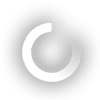
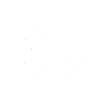
Nereus: CPButtonStyle, layout fixes

diff --git a/MediaPortal/Source/UI/Skins/Nereus/Skin/Nereus/themes/default/styles/Buttons.xaml b/MediaPortal/Source/UI/Skins/Nereus/Skin/Nereus/themes/default/styles/Buttons.xaml
@@ -33,25 +33,41 @@
   </Storyboard>
 
   <Storyboard x:Key="FocusedNereusStoryboard" FillBehavior="HoldEnd">
-    <DoubleAnimationUsingKeyFrames BeginTime="00:00:00" FillBehavior="HoldEnd" Storyboard.TargetName="ItemFrame" Storyboard.TargetProperty="Opacity">
+    <!--DoubleAnimationUsingKeyFrames BeginTime="00:00:00" FillBehavior="HoldEnd" Storyboard.TargetName="ItemFrame" Storyboard.TargetProperty="Opacity">
       <SplineDoubleKeyFrame KeyTime="00:00:00" Value="0"/>
       <SplineDoubleKeyFrame KeyTime="00:00:00.4" Value="1"/>
-    </DoubleAnimationUsingKeyFrames>
+    </-->
     <DoubleAnimationUsingKeyFrames BeginTime="00:00:00" FillBehavior="HoldEnd" Storyboard.TargetName="ItemImage" Storyboard.TargetProperty="Opacity">
         <SplineDoubleKeyFrame KeyTime="00:00:00" Value="0.7"/>
-        <SplineDoubleKeyFrame KeyTime="00:00:00.4" Value="1"/>
+        <SplineDoubleKeyFrame KeyTime="00:00:00.4" Value="1.2"/>
       </DoubleAnimationUsingKeyFrames>
+    <DoubleAnimationUsingKeyFrames BeginTime="00:00:00" FillBehavior="HoldEnd" Storyboard.TargetName="GrowControl" Storyboard.TargetProperty="RenderTransform.Children[0].ScaleX">
+      <SplineDoubleKeyFrame KeyTime="00:00:00" Value="1"/>
+      <SplineDoubleKeyFrame KeyTime="00:00:00.3" Value="1.16"/>
+    </DoubleAnimationUsingKeyFrames>
+    <DoubleAnimationUsingKeyFrames BeginTime="00:00:00" FillBehavior="HoldEnd" Storyboard.TargetName="GrowControl" Storyboard.TargetProperty="RenderTransform.Children[0].ScaleY">
+      <SplineDoubleKeyFrame KeyTime="00:00:00" Value="1"/>
+      <SplineDoubleKeyFrame KeyTime="00:00:00.3" Value="1.16"/>
+    </DoubleAnimationUsingKeyFrames>
   </Storyboard>
 
   <Storyboard x:Key="NotFocusedNereusStoryboard" FillBehavior="HoldEnd">
-    <DoubleAnimationUsingKeyFrames BeginTime="00:00:00" FillBehavior="HoldEnd" Storyboard.TargetName="ItemFrame" Storyboard.TargetProperty="Opacity">
+    <!--DoubleAnimationUsingKeyFrames BeginTime="00:00:00" FillBehavior="HoldEnd" Storyboard.TargetName="ItemFrame" Storyboard.TargetProperty="Opacity">
       <SplineDoubleKeyFrame KeyTime="00:00:00" Value="1"/>
       <SplineDoubleKeyFrame KeyTime="00:00:00.4" Value="0"/>
-    </DoubleAnimationUsingKeyFrames>
+    </-->
     <DoubleAnimationUsingKeyFrames BeginTime="00:00:00" FillBehavior="HoldEnd" Storyboard.TargetName="ItemImage" Storyboard.TargetProperty="Opacity">
-        <SplineDoubleKeyFrame KeyTime="00:00:00" Value="1"/>
+        <SplineDoubleKeyFrame KeyTime="00:00:00" Value="1.2"/>
         <SplineDoubleKeyFrame KeyTime="00:00:00.4" Value="0.7"/>
       </DoubleAnimationUsingKeyFrames>
+    <DoubleAnimationUsingKeyFrames BeginTime="00:00:00" FillBehavior="HoldEnd" Storyboard.TargetName="GrowControl" Storyboard.TargetProperty="RenderTransform.Children[0].ScaleX">
+      <SplineDoubleKeyFrame KeyTime="00:00:00" Value="1.16"/>
+      <SplineDoubleKeyFrame KeyTime="00:00:00.3" Value="1"/>
+    </DoubleAnimationUsingKeyFrames>
+    <DoubleAnimationUsingKeyFrames BeginTime="00:00:00" FillBehavior="HoldEnd" Storyboard.TargetName="GrowControl" Storyboard.TargetProperty="RenderTransform.Children[0].ScaleY">
+      <SplineDoubleKeyFrame KeyTime="00:00:00" Value="1.16"/>
+      <SplineDoubleKeyFrame KeyTime="00:00:00.3" Value="1"/>
+    </DoubleAnimationUsingKeyFrames>
   </Storyboard>
 
   <Storyboard x:Key="FocusedButtonWideStoryboard_Poster" FillBehavior="HoldEnd">
@@ -1534,14 +1550,26 @@
       <Setter.Value>
         <ControlTemplate TargetType="{x:Type Button}">
           <DockPanel>
-            <Grid DockPanel.Dock="Left" Height="58" Width="58">
-              <Image x:Name="image1" Source="CP_Background.png" Stretch="Uniform" Margin="1" HorizontalAlignment="Center" VerticalAlignment="Center"/>
-              <Image x:Name="image2" Source="CP_Play.png" Stretch="Uniform" Margin="19,16,13,16" Opacity="0.4" HorizontalAlignment="Center" VerticalAlignment="Center"/>
-              <Image x:Name="image3" Source="IsPlaying.png" Stretch="Uniform"  RenderTransformOrigin="0.49,0.49" Margin="0"
-                   HorizontalAlignment="Center" VerticalAlignment="Center">
+            <Grid DockPanel.Dock="Left" Height="84" Width="84">
+              <Image x:Name="ItemImage" HorizontalAlignment="Center" VerticalAlignment="Center" Stretch="Uniform" 
+                     DockPanel.Dock="Center" Margin="9" RenderTransformOrigin="0.5,0.5">
                 <Image.RenderTransform>
                   <RotateTransform x:Name="AnimatedRotateTransform" Angle="0" />
                 </Image.RenderTransform>
+                <Image.Source>
+                  <MultiBinding Converter="{StaticResource ExpressionMultiValueConverter}" ConverterParameter="{}{0} ? {1} : {2}">
+                    <Binding RelativeSource="{RelativeSource Mode=FindAncestor,AncestorType={x:Type Button}}" Path="HasFocus"/>
+                    <Binding Source="CP_Circle_focus.png"/>
+                    <Binding Source="CP_Circle.png"/>
+                  </MultiBinding>
+                </Image.Source>
+                <Image.Opacity>
+                  <MultiBinding Converter="{StaticResource ExpressionMultiValueConverter}" ConverterParameter="{}{0} ? {1} : {2}">
+                    <Binding RelativeSource="{RelativeSource Mode=FindAncestor,AncestorType={x:Type Button}}" Path="HasFocus"/>
+                    <Binding Source="1"/>
+                    <Binding Source="0.6"/>
+                  </MultiBinding>
+                </Image.Opacity>
                 <Image.Triggers>
                   <Trigger Property="IsEnabled" Value="True">
                     <Trigger.EnterActions>
@@ -1553,8 +1581,10 @@
                   </Trigger>
                 </Image.Triggers>
               </Image>
+              <Image x:Name="image2" Source="CP_Play.png" Stretch="Uniform" Margin="36,33,33,33" Opacity="0.6" HorizontalAlignment="Center" VerticalAlignment="Center"/>
             </Grid>
-            <StackPanel Orientation="Vertical" Margin="5,0,5,0" DockPanel.Dock="Right" IsVisible="{Binding RelativeSource={RelativeSource Mode=FindAncestor,AncestorType={x:Type Button}},Path=HasFocus}">
+            
+            <StackPanel Orientation="Vertical" Margin="5,15,5,15" DockPanel.Dock="Right" IsVisible="{Binding RelativeSource={RelativeSource Mode=FindAncestor,AncestorType={x:Type Button}},Path=HasFocus}">
               <mp_special_controls:PlayerControl Style="{ThemeResource CPLabelControlStyle}" 
                   AutoVisibility="True" PlayerContext="PrimaryPlayer" />
               <mp_special_controls:PlayerControl Style="{ThemeResource CPLabelControlStyle}"
@@ -1652,7 +1682,7 @@
                 <!-- Need to repeat the context here because the Button (ContentControl) sets the DataContext on the Content element -->
                 <Image x:Name="icon" Source="{Binding NotificationSymbolRelFilePath}" Width="50" Stretch="Uniform" Opacity="0.7"/>
                 <StackPanel Orientation="Horizontal" IsVisible="{Binding IsMoreThanOneNotificationAvailable}"
-                      HorizontalAlignment="Right" VerticalAlignment="Bottom">
+                            HorizontalAlignment="Right" VerticalAlignment="Bottom">
                   <Label Content="(" FontSize="{ThemeResource TinyFontSize}" Color="{ThemeResource TextColor}"/>
                   <Label Content="{Binding NumNotificationsTotal}" FontSize="{ThemeResource TinyFontSize}" Color="{ThemeResource TextColor}"/>
                   <Label Content=")" FontSize="{ThemeResource TinyFontSize}" Color="{ThemeResource TextColor}"/>

diff --git a/MediaPortal/Source/UI/Skins/Nereus/Skin/Nereus/screens/master_homemenu.xaml b/MediaPortal/Source/UI/Skins/Nereus/Skin/Nereus/screens/master_homemenu.xaml
@@ -92,7 +92,7 @@ Parameters which have to be accessible by a DynamicResource lookup:
           </DataTrigger>
         </Grid.Triggers>
 
-        <Grid Width="200" VerticalAlignment="Stretch">
+        <Grid Width="200" VerticalAlignment="Stretch" Margin="0,0,0,-100">
           <Grid.Triggers>
             <!--Open the menu when the grid gets focus-->
             <EventTrigger RoutedEvent="FrameworkElement.GotFocus">
@@ -130,7 +130,7 @@ Parameters which have to be accessible by a DynamicResource lookup:
           </Grid.Triggers>
 
           <!-- Top Gradient Overlay-->
-          <Border HorizontalAlignment="Stretch" VerticalAlignment="Stretch" BorderThickness="0" Margin="0,0,-30,0">
+          <Border HorizontalAlignment="Stretch" VerticalAlignment="Stretch" BorderThickness="0" Margin="-200,0,-30,0">
             <Border.Background>
               <LinearGradientBrush StartPoint="0.5,0" EndPoint="0.5,1">
                 <GradientStop Color="#E6000000" Offset="0" />
@@ -140,7 +140,7 @@ Parameters which have to be accessible by a DynamicResource lookup:
           </Border>
 
           <!-- Bottom Gradient Overlay-->
-          <Border Grid.Row="1" HorizontalAlignment="Stretch" VerticalAlignment="Bottom" BorderThickness="0" Margin="0,0,-30,0" Height="100">
+          <Border Grid.Row="1" HorizontalAlignment="Stretch" VerticalAlignment="Bottom" BorderThickness="0" Margin="-200,0,-30,-100" Height="100">
             <Border.Background>
               <LinearGradientBrush StartPoint="0.5,0" EndPoint="0.5,1">
                 <GradientStop Color="#00000000" Offset="0" />

diff --git a/MediaPortal/Source/UI/Skins/Nereus/Skin/Nereus/themes/default/styles/OtherControlsOverrides.xaml b/MediaPortal/Source/UI/Skins/Nereus/Skin/Nereus/themes/default/styles/OtherControlsOverrides.xaml
@@ -789,8 +789,8 @@
         <RowDefinition Height="Auto"/>
       </Grid.RowDefinitions>
 
-      <Image x:Name="ItemFrame" Grid.RowSpan="2" HorizontalAlignment="Center" VerticalAlignment="Center" Opacity="0"
-             Stretch="Fill" Source="TileFrameGlow.png" Margin="-25,-25,-25,-25" Width="210" Height="213"/>
+      <!--Image x:Name="ItemFrame" Grid.RowSpan="2" HorizontalAlignment="Center" VerticalAlignment="Center" Opacity="0"
+             Stretch="Fill" Source="TileFrameGlow.png" Margin="-25,-25,-25,-25" Width="210" Height="213"/-->
       <Rectangle Fill="#222222" Grid.RowSpan="2" HorizontalAlignment="Stretch" VerticalAlignment="Stretch"/>
       <Image x:Name="ItemImage" Grid.RowSpan="2" HorizontalAlignment="Stretch" VerticalAlignment="Stretch" Stretch="Fill" Opacity="0.7">
         <Image.Source>
@@ -881,7 +881,7 @@
             <Button.Triggers>
               <Trigger Property="HasFocus" Value="True">
                 <Setter TargetName="ItemLabel" Property="Scroll" Value="Auto"/>
-                <Setter TargetName="ItemFrame" Property="Opacity" Value="1"/>
+                <!--Setter TargetName="ItemFrame" Property="Opacity" Value="1"/-->
                 <Trigger.EnterActions>
                   <BeginStoryboard x:Name="SlideOut">
                     <BeginStoryboard.Storyboard>

diff --git a/MediaPortal/Source/UI/Skins/Nereus/Skin/Nereus/screens/master_bare.xaml b/MediaPortal/Source/UI/Skins/Nereus/Skin/Nereus/screens/master_bare.xaml
@@ -46,7 +46,7 @@ Parameters which have to be accessible by a DynamicResource lookup:
     <Grid.RowDefinitions>
       <RowDefinition Height="*"/>
       <RowDefinition Height="260"/>
-        </Grid.RowDefinitions>
+    </Grid.RowDefinitions>
     <Grid.ColumnDefinitions>
       <ColumnDefinition Width="*"/>
     </Grid.ColumnDefinitions>
@@ -150,11 +150,11 @@ Parameters which have to be accessible by a DynamicResource lookup:
     <Grid Grid.Row="1" x:Name="FooterPanel" Margin="1000,0,0,0">
       <Grid.RowDefinitions>
          <RowDefinition Height="*"/>
-         </Grid.RowDefinitions>
+      </Grid.RowDefinitions>
       <Grid.ColumnDefinitions>
         <ColumnDefinition Width="*"/>
       </Grid.ColumnDefinitions>
-      <Control x:Name="AlternativeFooterControl" HorizontalAlignment="Stretch" Grid.Column="0" 
+      <Control x:Name="AlternativeFooterControl" HorizontalAlignment="Stretch"
                Template="{DynamicResource ResourceKey=Alternative_Footer_Template}">
       </Control>
       <mp_special_controls:PlayerControl Margin="15" Style="{ThemeResource NavigationScreenPlayerControlStyle}" 

diff --git a/MediaPortal/Source/UI/Skins/Nereus/Skin/Nereus/screens/master_home.xaml b/MediaPortal/Source/UI/Skins/Nereus/Skin/Nereus/screens/master_home.xaml
@@ -65,7 +65,7 @@ Parameters which have to be accessible by a DynamicResource lookup:
       <!-- FooterPanel -->
       <Grid x:Name="FooterPanel" Margin="2" DockPanel.Dock="Bottom">
         <Grid.RowDefinitions>
-          <RowDefinition Height="Auto"/>
+          <RowDefinition Height="100"/>
         </Grid.RowDefinitions>
         <Grid.ColumnDefinitions>
           <ColumnDefinition Width="*"/>
